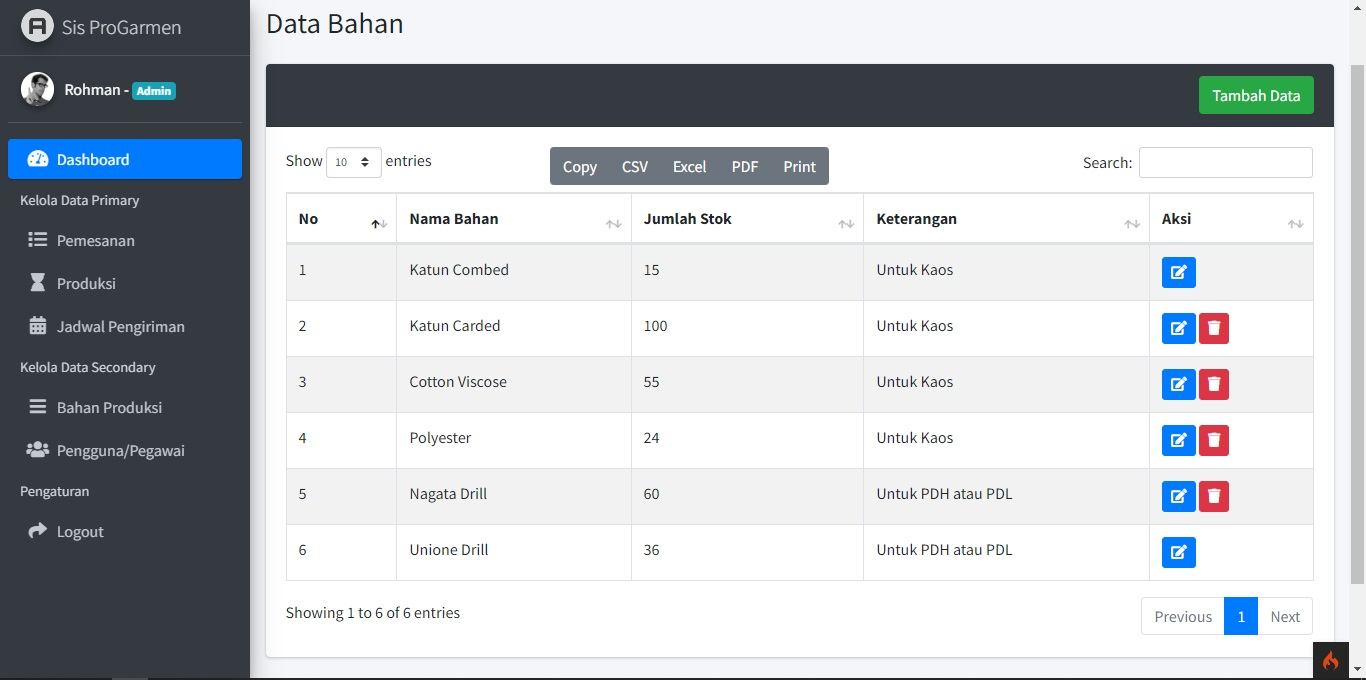
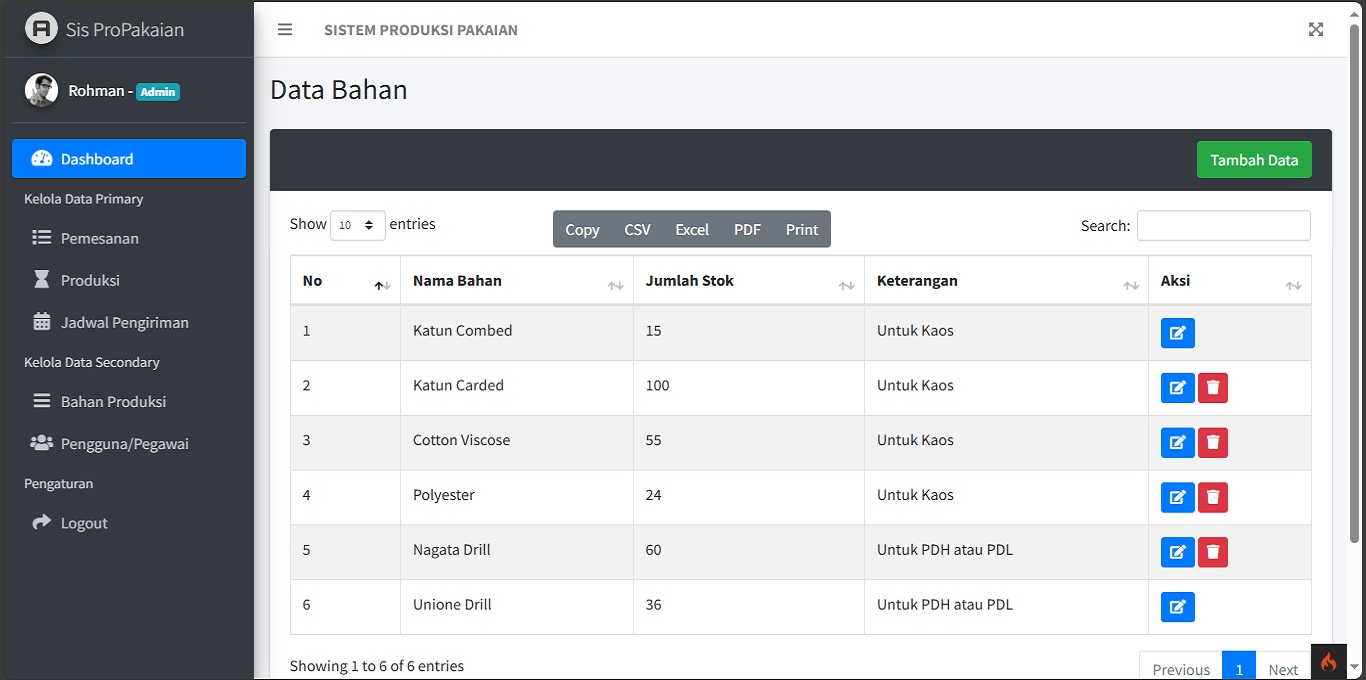
ganti beberapa gambar sistem produksi garmen

diff --git a/index.html b/index.html
@@ -451,12 +451,12 @@
                                 <a class="portfolio-box text-decoration-none" href="img/sistem_produksi_garmen/garmen_dashboard_2.jpg" title="Website Produksi Garmen (Pakaian)">
                                     <img class="img-fluid" src="img/sistem_produksi_garmen/garmen_dashboard_2.jpg" alt="..." />
                                     <div class="portfolio-box-caption">
-                                        <div class="project-name">Website Produksi Garmen</div>
+                                        <div class="project-name">Website Produksi Pakaian</div>
                                         <div class="project-category text-white-50 pt-3">Order Mahasiswa Untuk Skripsi</div>
                                     </div>
                                 </a>
                                 <div class="d-flex justify-content-center text-center mt-3 text-primary">
-                                    <h6><b>Website Produksi Garmen<br>"Order Mahasiswa Untuk Skripsi"</b></h6>
+                                    <h6><b>Website Produksi Pakaian<br>"Order Mahasiswa Untuk Skripsi"</b></h6>
                                 </div>
                                 <div class="d-flex justify-content-center mt-1">
                                     <button class="btn btn-primary btn-sm"><a class="text-decoration-none d-block text-center text-white" href="project/sistem_produksi_garmen.html">Lihat Detail Program</a></button>
